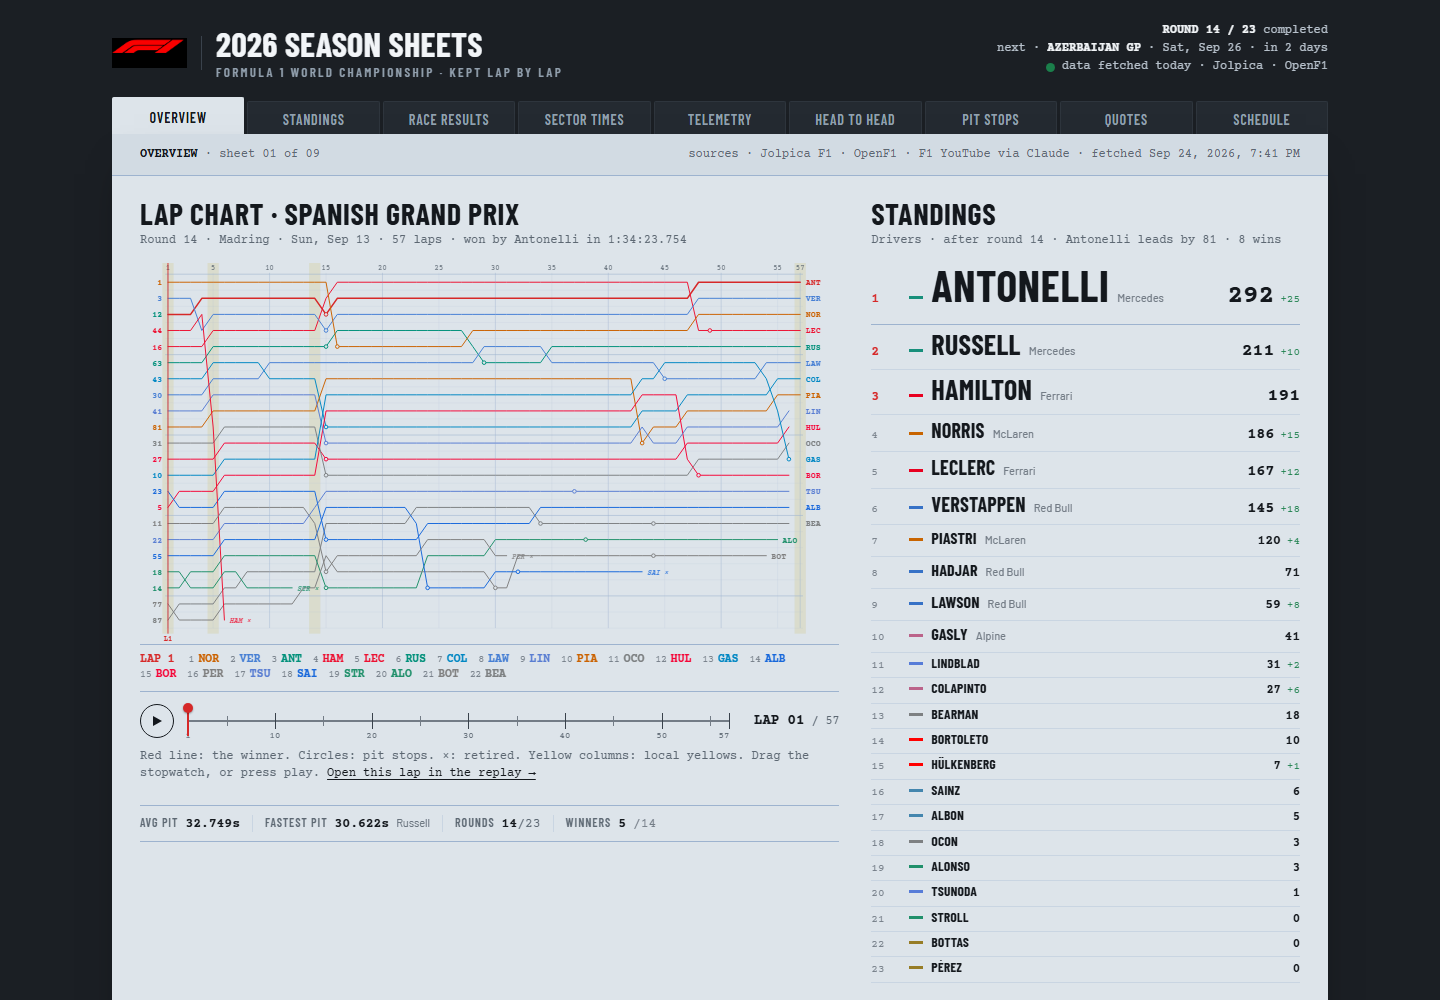
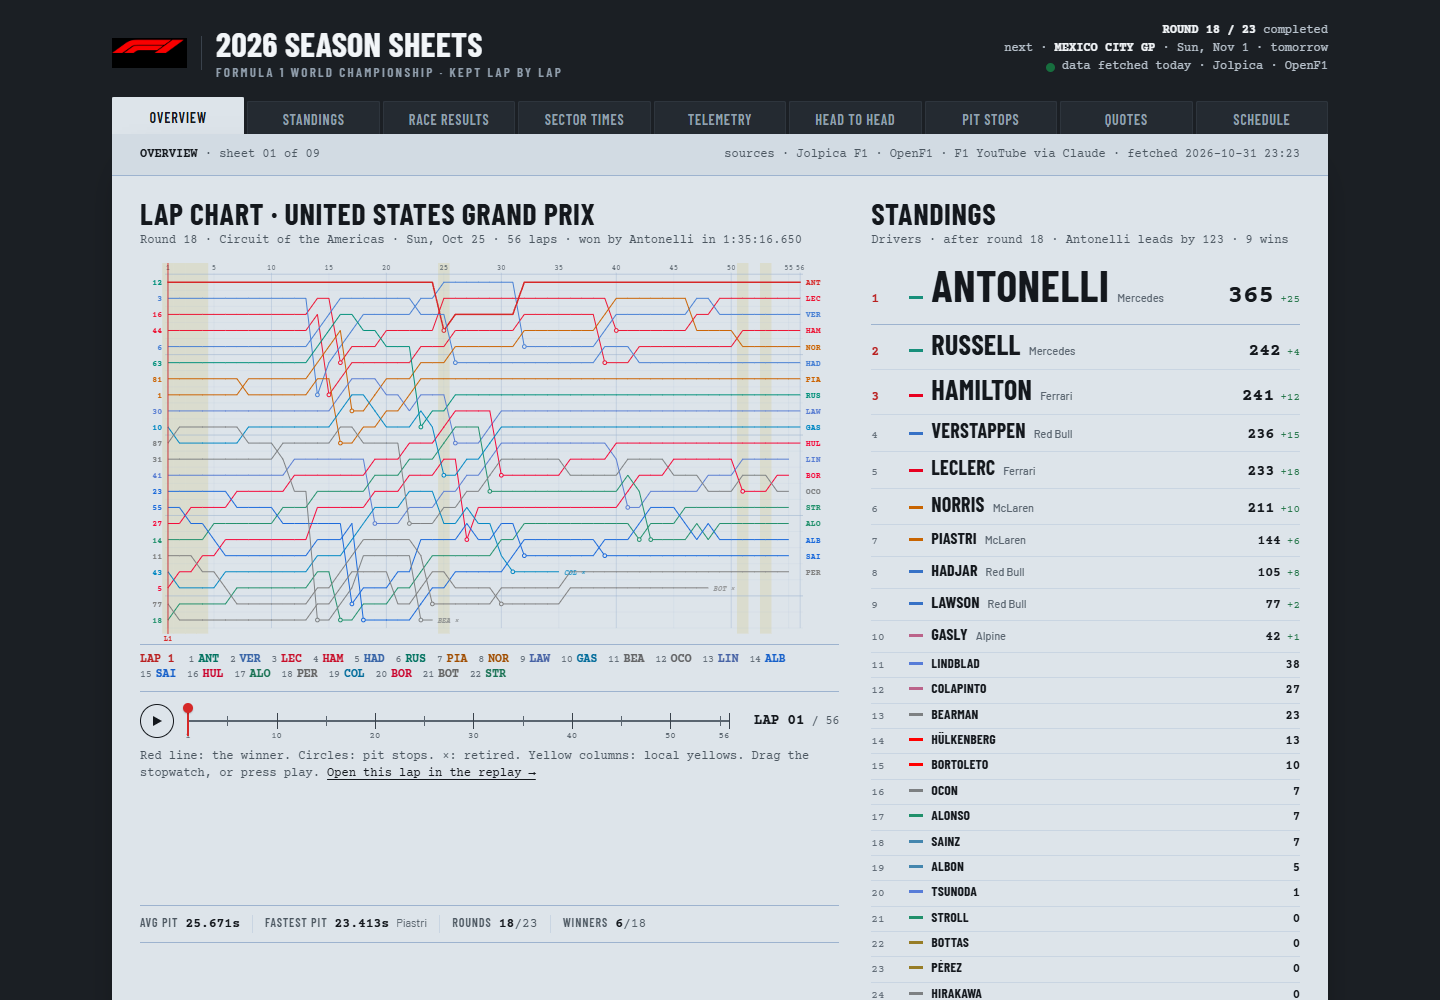
README images and docs for this round
- README: the Title Fight and a Driver Ratings card join the analytics
  section; the Overview, Telemetry and social-card captures are retaken
  with current data (Playwright against the production build; method and
  provenance in DESIGN.md's Rasters table).
- The ratings card prints the page's canonical address, so a card made
  from a local or preview build still links to the live site.
- CLAUDE.md: the pre-render and its hydration rule (identical HTML from
  the build-time and hydrating renders; nothing time-, locale- or
  fetch-dependent on the Overview without going through the fixed
  helpers), the smoke test, TCT for small team-coloured text, the `d`
  deep link, App.jsx at ~4,800 lines. README: the pre-render and the
  smoke test under How it works and Quality gates.

diff --git a/src/App.jsx b/src/App.jsx
@@ -2407,7 +2407,8 @@ const DriverRatings=memo(function DriverRatings({stats,DS,headshots,season}){
   const row=sorted.find(d=>d.did===sel)||sorted[0];
   const team=DS.find(d=>d.did===row.did)?.t||row.team;
   const col=TC[team]||"var(--ink-3)";
-  const link=`${location.origin}${location.pathname}${tabHref("Head to Head",{d:row.did})}`;
+  // the canonical address, so a card made from a local or preview build still points at the live site
+  const link=`${document.querySelector('link[rel=canonical]')?.href||location.origin+location.pathname}${tabHref("Head to Head",{d:row.did})}`;
   const choose=did=>{setSel(did);patchHash({d:did});};
   const download=async()=>{
     try{await document.fonts?.ready;}catch{/* fonts optional */}

diff --git a/CLAUDE.md b/CLAUDE.md
@@ -19,15 +19,18 @@ f1-dashboard/
 │   ├── fetch-driver-quotes.py      ← YouTube + Claude API → public/driver-quotes.json
 │   ├── fetch-tracks.mjs            ← Circuit GeoJSON → public/tracks.json (manual, not in CI)
 │   ├── build-season-stats.mjs      ← data.json + meeting files → public/season-stats.json (percentiles; CI, no network)
+│   ├── prerender.mjs               ← build: injects the rendered Overview into dist/index.html (shell kept in a <template> for deep links)
 │   ├── validate-data.mjs           ← CI gate: fails the deploy if fetched data is malformed or shrank vs HEAD
 │   ├── commit-data.sh              ← CI: commits this run's data on top of the latest main (never skips)
 │   ├── merge-video-ids.mjs         ← CI: merges discovered video IDs into main's (main wins)
 │   ├── run-summary.mjs             ← CI: job summary + "quotes lag" warning annotation
 │   └── weekly-transcripts.ps1      ← local scheduled task: fetch transcripts, commit, push (see Quote workflow)
+├── e2e/smoke.spec.mjs              ← Playwright smoke test of the built site (installed Chrome; playwright.config.mjs) — CI gate before deploy
 ├── test/                           ← node:test (`npm test`): scripts.test.mjs (fetch helpers, validator), data.test.mjs (src/data.js)
 ├── src/
 │   ├── main.jsx                    ← React entry point + root error boundary
-│   ├── App.jsx                     ← ~4,300 lines, ALL tabs and components in one file
+│   ├── App.jsx                     ← ~4,800 lines, ALL tabs and components in one file
+│   ├── prerender.jsx               ← SSR entry: renderToString(<App initialRaw renderAt/>) for the build-time pre-render
 │   ├── data.js                     ← pure data logic: transformData, head-to-head, statuses, joins + the analytics layer (green-flag laps, race pace, passes, lap-1 gains, mini-sectors, title outlook, season percentiles)
 │   └── styles.css                  ← design tokens + sheet styles
 ├── public/
@@ -48,9 +51,10 @@ f1-dashboard/
 ```
 
 ### Key architectural decisions
-- **Single-file React app** — All tabs and components live in `App.jsx` (styles in `styles.css`). This is intentional for simplicity. Don't split into separate component files. The one split is `src/data.js`: pure data logic with no JSX, so node:test can load it directly — keep React out of it.
+- **Single-file React app** — All tabs and components live in `App.jsx` (styles in `styles.css`). This is intentional for simplicity. Don't split into separate component files. The one split is `src/data.js`: pure data logic with no JSX, so node:test can load it directly — keep React out of it. (`src/prerender.jsx` is a three-line SSR entry, not a component file.)
+- **Pre-rendered Overview** — `npm run build` = `vite build` + `vite build --ssr src/prerender.jsx --outDir .ssr` + `node scripts/prerender.mjs`, which writes the Overview, rendered from `public/data.json`, into `dist/index.html` (`#root[data-prerendered][data-render-at]`). `main.jsx` fetches data.json, then **hydrates** (`hydrateRoot`) — replacing the DOM made the heading a new, later LCP. The server render and the hydrating render must print identical HTML: both use the build's clock and en-US/UTC (`renderAt` → `hydrated` state, `dateFmt`/`countdown`/`stampFmt`/`isoMinute` in App); live time and local zone apply right after. Anything new on the Overview that depends on time, locale, or a client-only fetch must follow that rule, or React logs "Pre-rendered page re-rendered" and the e2e test fails. Text that changes after first paint and rewraps causes layout shift — keep it stable (see the band's fixed-width timestamp). Deep links to other sheets: an inline guard swaps the loading shell (`<template id="loading-shell">`) back in before paint. A failed pre-render never fails the build.
 - **Static data files** — Data is fetched at build time by scripts, saved as JSON in `public/`, and loaded client-side via `fetch()`. Only `data.json` gates first paint; the OpenF1 payload is split into a light `openf1/index.json` plus per-meeting files that lazy-load when Sector Times / Telemetry / Race Results need them (all output minified — pretty-printing tripled the old single-file payload). One runtime exception: the Telemetry tab's Lap Compare live-fetches OpenF1 `/car_data` + `/location` for laps other than its default (gated on the tab being open, requests spaced 400 ms apart with 429 backoff, cached in sessionStorage). The default pair and lap ship precomputed in the meeting file (`lapCompareDefault`), so opening the tab makes no live calls.
-- **Deep links** — the URL hash carries the tab and its selection (`#tab=results&r=14`, `#tab=telemetry&r=14&lap=30`, `#tab=sectors&r=14&s=qualifying`). Tab changes push history entries (Back/Forward work); selections replace. `TAB_SLUGS` / `SESSION_SLUGS` in App.jsx define the names; a bare `#lap=N` still opens the Overview.
+- **Deep links** — the URL hash carries the tab and its selection (`#tab=results&r=14`, `#tab=telemetry&r=14&lap=30`, `#tab=sectors&r=14&s=qualifying`). Tab changes push history entries (Back/Forward work); selections replace. `TAB_SLUGS` / `SESSION_SLUGS` in App.jsx define the names; a bare `#lap=N` still opens the Overview. Driver Ratings: `#tab=h2h&d=<Jolpica driverId>` (e.g. `max_verstappen`).
 - **GitHub Actions deployment** — Uses `npm ci` (requires `package-lock.json`). Source set to "GitHub Actions" in Pages settings, not branch-based.
 - **Vite base path** — `vite.config.js` has `base: '/f1-dashboard/'` for GitHub Pages subdirectory hosting.
 
@@ -155,7 +159,7 @@ The visual world (chosen Sept 2026 via the Impeccable skill; recorded in `DESIGN
 - Fonts (loaded in `index.html`): `--font-head` Barlow Condensed (headings, labels, tabs), `--font-ui` Barlow (body), `--font-data` Courier Prime (every numeral and data cell; `fontVariantNumeric:"tabular-nums"` sites also set it).
 
 ### Team colours (`TC`)
-`TC_RAW` holds the broadcast liveries; `TC` is `inkify()`'d — lightness is clamped so pale liveries (Mercedes teal, Williams blue, Haas silver) read at text sizes on the sheet while keeping their hue. OpenF1 `teamColour` values are passed through `inkify()` at every use. Team colour is ink, never a fill behind text.
+`TC_RAW` holds the broadcast liveries; `TC` is `inkify()`'d — lightness is clamped so pale liveries (Mercedes teal, Williams blue, Haas silver) read at text sizes on the sheet while keeping their hue. OpenF1 `teamColour` values are passed through `inkify()` at every use. Team colour is ink, never a fill behind text. `TC` targets 3.1:1 (lines, bars, large labels); **`TCT`** (`inkify(v, TEXT_CONTRAST=4.6)`) is for small team-coloured text — Lighthouse accessibility is 100, keep it there.
 ```javascript
 Mercedes "#27F4D2" → ink ~#178f7b   Ferrari "#E80020"   McLaren "#FF8000"   Red Bull "#3671C6"
 Racing Bulls "#6692FF"   Alpine "#FF87BC"   Aston Martin "#229971"   Haas "#B6BABD"
@@ -214,7 +218,8 @@ Position movement (`mv` field) subtracts those points from current totals, re-so
 ```bash
 # Local development
 npm run dev                     # Start Vite dev server (hot reload)
-npm run build                   # Production build → dist/
+npm run build                   # Production build → dist/ (+ SSR build and Overview pre-render)
+npm run e2e                     # Playwright smoke test of dist/ (run after build) — CI gate
 npm run lint                    # ESLint (react-hooks rules are errors) — CI gate
 npm test                        # node:test: fetch helpers, validator, src/data.js — CI gate
 
@@ -240,7 +245,7 @@ Steps:
 1. Checkout **latest `main`** (not the triggering SHA — a queued run starts from its predecessor's data commit) → Setup Node 22 → `npm ci` → `npm run lint` → `npm test`
 2. Fetch Jolpica, fetch OpenF1, fetch driver quotes — each `continue-on-error` with an `id`. The scripts only write at the end, so a failed source leaves its committed files in place and the others still ship. Then `build-season-stats.mjs` (also soft).
 3. `node scripts/validate-data.mjs` — hard-fails the deploy if data is malformed or shrank vs the committed baseline (a failed build keeps the previous deploy live). Shrink checks are skipped when the season changes; `ALLOW_SHRINK` downgrades them to warnings.
-4. `npm run build` → deploy to GitHub Pages
+4. `npm run build` (with the Overview pre-render) → `npm run e2e` smoke test (fails the deploy; traces uploaded) → deploy to GitHub Pages
 5. **Commit the fetched data back to `main`** via `scripts/commit-data.sh` (run from a copy, since it resets the checkout): snapshot `public/data.json`, `public/openf1/`, `public/driver-quotes.json`, `public/season-stats.json`, reset to the latest `origin/main`, lay them back on top, merge `scripts/video-ids.json` (main wins), commit as `github-actions[bot]`, push with retries. It used to rebase, which silently skipped the commit whenever the quotes step had recorded new video IDs or a queued run followed another. `GITHUB_TOKEN` pushes never trigger workflows, so it can't loop. **Run `git pull` before pushing local work** — main moves after every deploy.
 6. `scripts/run-summary.mjs` writes the job summary (what each source shipped, quote lag) — then the run turns red if any source failed.
 

diff --git a/README.md b/README.md
@@ -38,6 +38,12 @@ Every derived number has a "How this is computed" note under its chart, and the 
 
 All the data is downloadable from the page footer; [docs/DATA.md](docs/DATA.md) describes every file and field.
 
+![The Title Fight: points left, the clinch condition, simulated title odds and a what-if grid](docs/title-fight.png)
+
+Every driver has a shareable ratings card, drawn in the browser from the same numbers, with a link back to their page:
+
+![A Driver Ratings card: Max Verstappen's season percentiles in nine metrics](docs/ratings-card.png)
+
 ## How it works
 
 ```mermaid
@@ -64,6 +70,7 @@ A GitHub Actions workflow runs on every push and on three crons timed around rac
 - **Validated before it ships.** `validate-data.mjs` fails the deploy on malformed data (a truncated classification, a season under way with no standings) or on data that shrank since the last deploy, so a bad fetch leaves the previous site live. A new season legitimately starts empty and is recognised as such, and a manual `allow_shrink` covers a round leaving the calendar.
 - **Fails soft, and says so.** Each source can fail without blocking the others. The run then turns red, and a job summary lists what each source shipped and whether quotes lag the results.
 - **Correct under real-world edge cases.** Teams follow each round's classification (2026: Lawson moved to Red Bull at round 12, so head-to-heads and team breakdowns split at that round). Retirements come from Jolpica's position text, not its numeric position. The points delta follows the round the standings cover, which matters on a sprint Saturday.
+- **Pre-rendered, then hydrated.** The build renders the Overview to HTML with the day's data, so the first sheet paints with the page instead of after the script; React then adopts that HTML rather than redrawing it. Both renders use the build's clock and UTC so they match exactly. Lighthouse mobile: performance in the 90s, accessibility 100, layout shift ~0.
 - **Precomputed where a browser would struggle.** Lap Compare's default view ships inside the meeting file, so the Telemetry tab opens without live API calls; OpenF1's free tier allows about three requests a second.
 - **LLM extraction with guardrails.** Quotes are extracted from auto-captions with a JSON schema, a per-round roster so a mid-season seat change doesn't relabel older quotes, explicit handling of truncated or refused responses, and manual overrides for misattributions.
 
@@ -90,7 +97,8 @@ python scripts/fetch-driver-quotes.py                       # extract quotes
 
 - `npm run lint` runs ESLint with React's hooks rules as errors.
 - `npm test` runs node:test over the fetch helpers, the validator and the dashboard's data transforms.
-- CI runs both before any data is fetched, then the validator before the build.
+- `npm run e2e` runs a Playwright smoke test of the built site at phone and desktop sizes: every sheet opens without errors, and the pre-rendered Overview hydrates without a mismatch or layout shift.
+- CI runs lint and tests before any data is fetched, the validator before the build, and the smoke test before the deploy.
 
 ## Project layout
 
@@ -98,11 +106,13 @@ python scripts/fetch-driver-quotes.py                       # extract quotes
 .github/workflows/deploy.yml   fetch → validate → build → deploy → commit data back
 scripts/                       fetch scripts, validator, commit and summary helpers
 src/App.jsx                    the dashboard: every sheet and component
+src/prerender.jsx              server entry for the build-time pre-render of the Overview
 src/data.js                    pure data logic (transforms, joins, race pace, passes, title odds, percentiles)
 src/styles.css                 design tokens and sheet styles
 public/                        fetched data (data.json, openf1/, driver-quotes.json, season-stats.json, tracks.json)
 docs/DATA.md                   data dictionary: every file and field
 test/                          node:test suites
+e2e/                           Playwright smoke test of the built site
 ```
 
 ## Credits

diff --git a/DESIGN.md b/DESIGN.md
@@ -296,7 +296,7 @@ Derived numbers (title odds, race pace, percentiles, mini-sectors) sit in the sa
 
 ### Do:
 - **Do** put every number in Courier Prime with `tabular-nums`, including large points totals and lap counters.
-- **Do** run any data-sourced colour through `inkify()` before rendering it on paper; use it as stroke, text, bar or dot.
+- **Do** run any data-sourced colour through `inkify()` before rendering it on paper; use it as stroke, text, bar or dot. Small team-coloured text takes the 4.5:1 ink (`TCT`, or `inkify(c, TEXT_CONTRAST)`), not the 3.1:1 line ink (`TC`).
 - **Do** separate sections with a single 1px `rule` line and size hierarchy, not with boxes.
 - **Do** open every sheet with a `sheet-band` naming its sources and fetch time.
 - **Do** keep radii at 2px on sheets, panels, buttons and selects; circles only for the stopwatch button, headshots and the freshness dot.
@@ -315,16 +315,20 @@ Derived numbers (title odds, race pace, percentiles, mini-sectors) sit in the sa
 
 ## Rasters
 
-Shipping images and where they come from. All are headless-Chrome captures of the dashboard itself (reduced motion, 1× scale), taken 2026-09-24 from the local build with that day's data; nothing is drawn or generated.
+Shipping images and where they come from. All are headless-Chrome captures of the dashboard itself (reduced motion, 1× scale), taken 2026-10-31 from the local production build (`npm run build` + `vite preview`) with that day's data; nothing is drawn or generated.
 
 | File | Size | Capture |
 |---|---|---|
 | `public/og.png` | 1200×630 | Overview first viewport — the social card (`og:image`, `twitter:image`) |
 | `docs/overview.png` | 1440×1000 | Overview first viewport — README hero |
-| `docs/telemetry.png` | 1440×1005 | `#tab=telemetry&r=14&lap=30`, cropped above the Lap Compare panel — README |
+| `docs/telemetry.png` | 1440×1189 | `#tab=telemetry&r=14&lap=30`, cropped at the end of the Replay section — README |
+| `docs/title-fight.png` | 1440×660 | `#tab=standings`, cropped below the Title Fight panel — README |
+| `docs/ratings-card.png` | 1200×630 | The Driver Ratings "Download card" PNG for `max_verstappen` (canvas-drawn by the page) — README |
 
 Re-capture after a visual change with:
 
 ```bash
 chrome --headless=new --hide-scrollbars --force-prefers-reduced-motion --force-device-scale-factor=1 --window-size=1200,630 --virtual-time-budget=10000 --screenshot=og.png http://localhost:5177/f1-dashboard/
 ```
+
+The cropped captures and the ratings card were taken with Playwright (`chromium.launch({ channel: "chrome" })`, `reducedMotion: "reduce"`, `deviceScaleFactor: 1`): crop with `page.screenshot({ clip })` to an element's bounding box, and save the card from the page's own Download card button (`page.waitForEvent("download")`). The card prints the page's canonical URL, so captures from a local build still show the live address.
